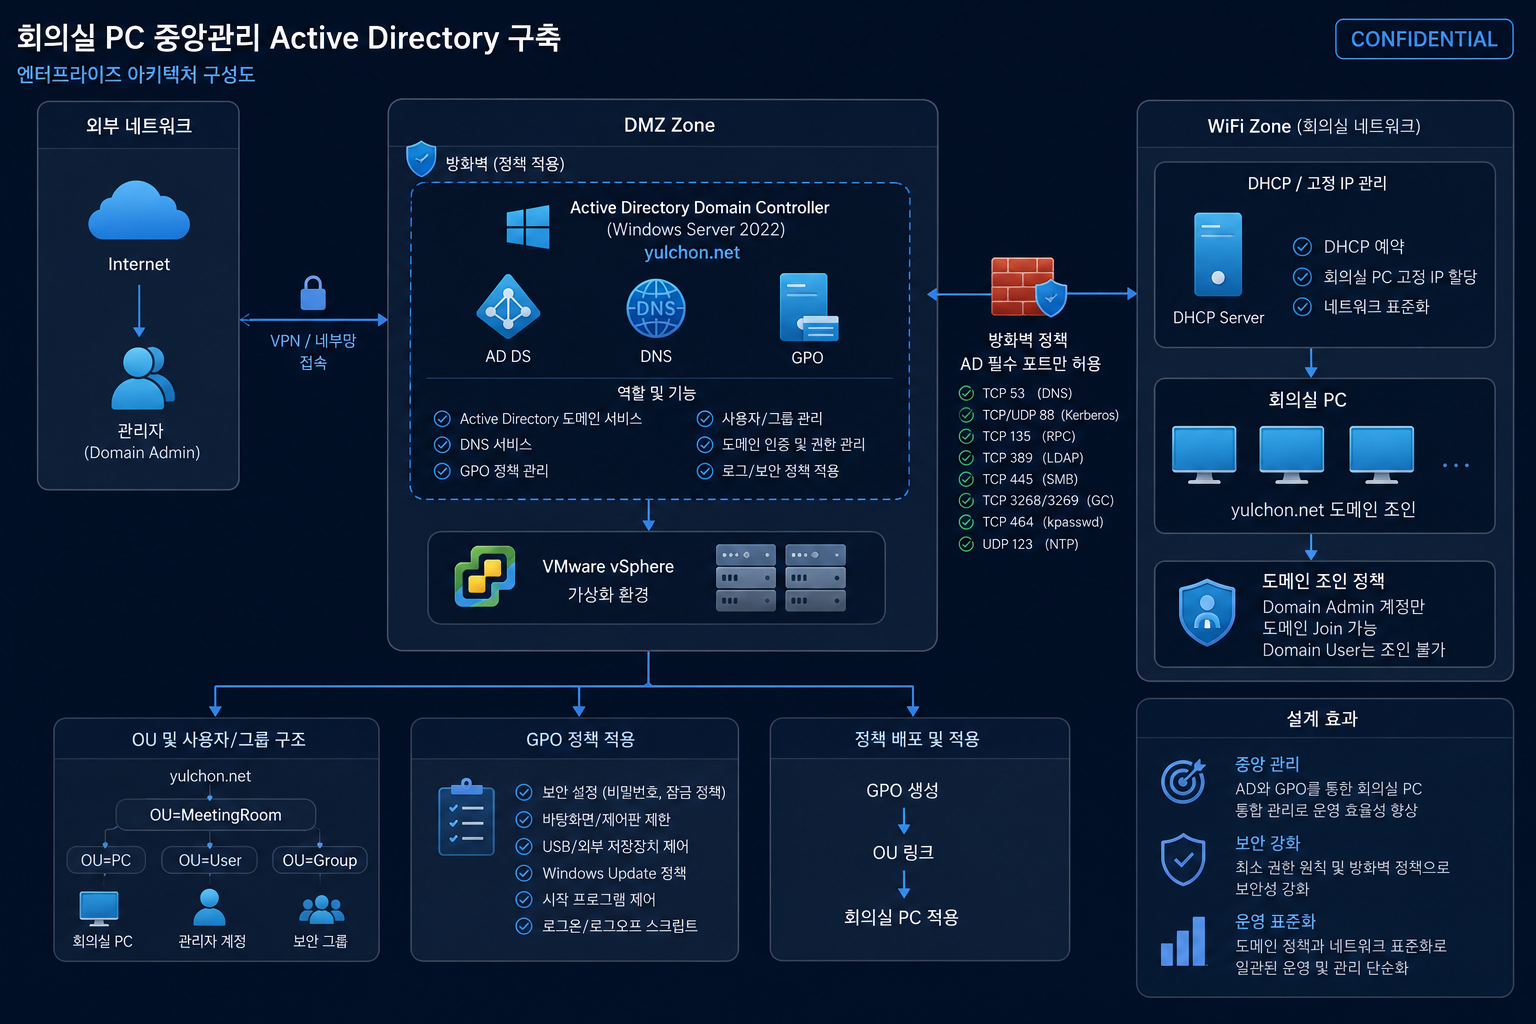
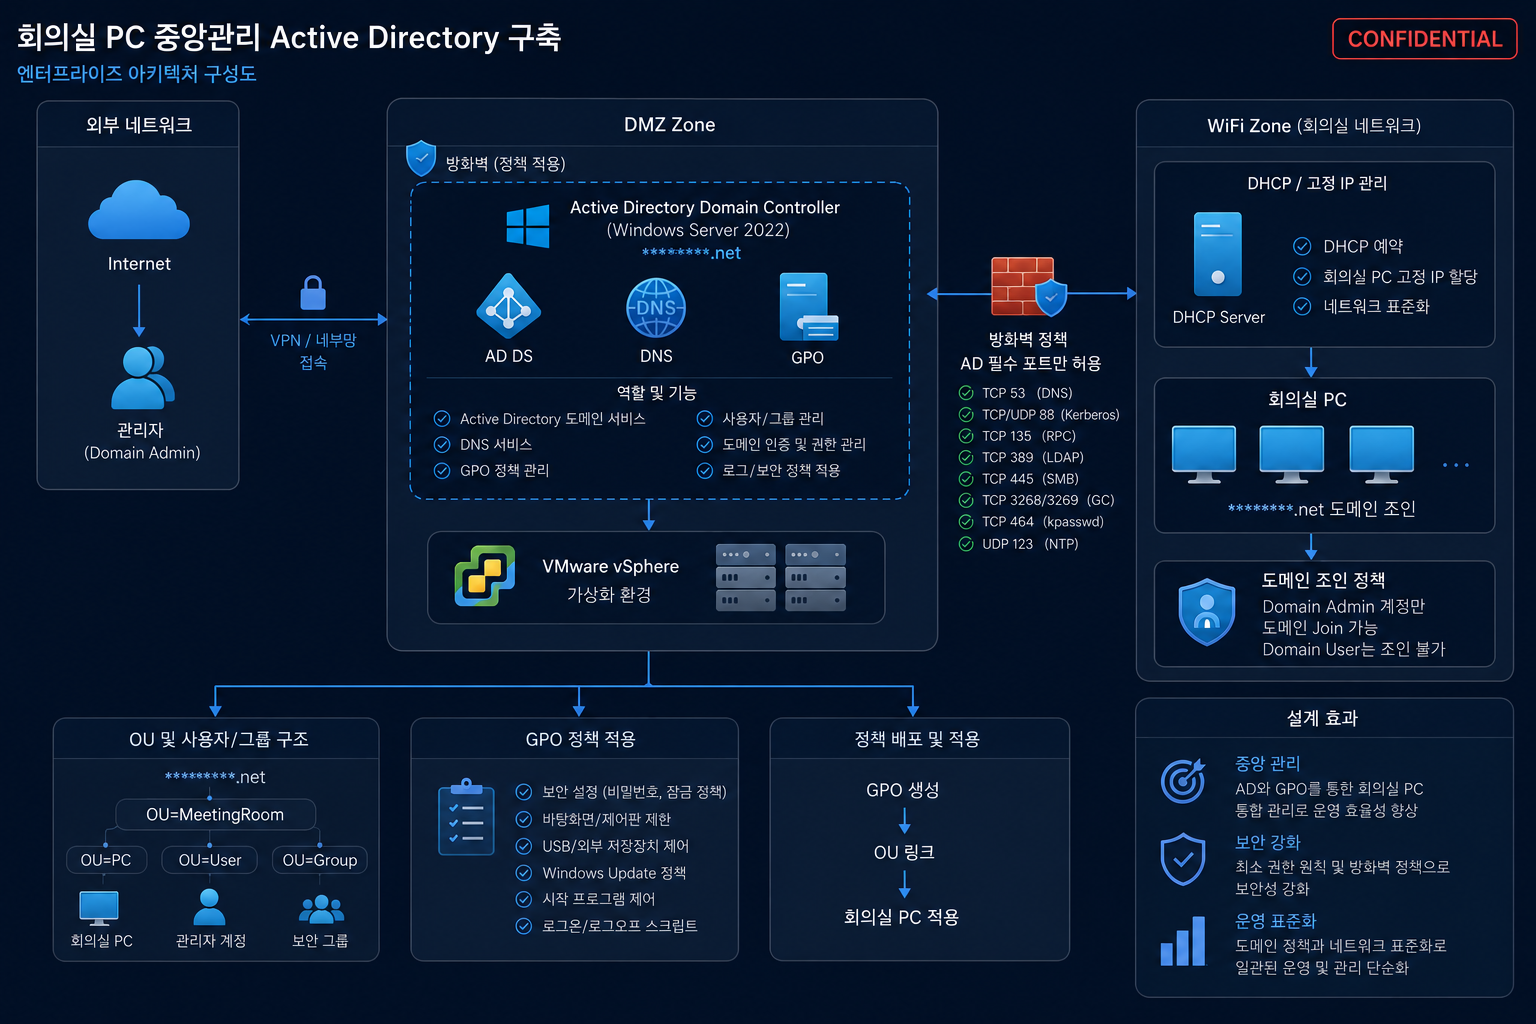
pj_edit

diff --git a/azure-knowledge-platform/projects.html b/azure-knowledge-platform/projects.html
@@ -988,7 +988,7 @@ const projects = [
     date: '2025.04',
     icon: 'security',
     detail: {
-      diagram: null,
+      diagram: '../etc/Images/paloalto.png',
       techStack: [
         { name: 'Palo Alto' },
         { name: 'NAC' },
@@ -1027,7 +1027,7 @@ const projects = [
     date: '2025.07',
     icon: 'ai',
     detail: {
-      diagram: null,
+      diagram: '../etc/Images/Copilotstudio.png',
       techStack: [
         { name: 'Copilot Studio' },
         { name: 'M365' },
@@ -1231,45 +1231,85 @@ const projects = [
       keywords: ['Power Automate', 'Forms', 'Process Automation']
     }
   },
-  {
-    id: 16,
-    priority: 3,
-    domain: 'Security',
-    status: 'Completed',
-    title: 'ISO 27001 취약점 진단 자동화 대시보드 구축',
-    tags: ['PowerShell', 'Logpresso', 'ISO 27001'],
-    desc: 'ISO 27001 인증 유지를 위한 Windows Server 취약점 진단 84개 항목을 PowerShell로 자동 점검하고, Logpresso 대시보드로 시각화한 프로젝트입니다.',
-    date: '2025.09',
-    icon: 'security',
-    detail: {
-      diagram: null,
-      techStack: [
-        { name: 'PowerShell' },
-        { name: 'Logpresso' },
-        { name: 'Windows Server' }
-      ],
-      whatIDesigned: [
-        'ISO 27001 취약점 진단 기준 84개 항목을 점검하는 Windows Server용 PowerShell 스크립트 개발',
-        '점검 결과를 서버 로컬에 생성하고 Logpresso로 수집·연동',
-        '항목별 준수 여부를 한눈에 확인할 수 있는 대시보드 구성',
-        '기준 미충족 항목을 식별해 조치할 수 있도록 시각화'
-      ],
-      problem: 'ISO 27001 인증 유지를 위해서는 Windows Server 취약점 진단 기준 84개 항목을 주기적으로 점검해야 했는데, 서버마다 수작업으로 확인하다 보니 시간이 많이 들고 누락 위험도 있었습니다.',
-      challenge: [
-        { issue: '84개 항목을 서버별로 수작업 점검하면 시간이 오래 걸리고 결과를 취합해 전체 현황을 파악하기 어려웠음', resolution: 'PowerShell 스크립트로 84개 항목을 자동 점검하도록 구현하고, 결과를 Logpresso로 수집해 항목별 준수 여부를 대시보드로 시각화' },
-      ],
-      outcome: [
-        { value: '84개 항목', label: '자동 점검' },
-        { value: 'PowerShell → Logpresso', label: '자동 수집·시각화 파이프라인' },
-        { value: '대시보드 기반', label: '미준수 항목 식별 및 조치 지원' },
-      ],
-      whyDesign: [
-        { title: '효율성', desc: '수작업 점검을 자동화해 84개 항목을 반복적으로 빠르게 확인' },
-        { title: '가시성', desc: '대시보드로 항목별 준수 여부를 한눈에 파악하고 미흡한 부분을 바로 조치' }
-      ],
-      keywords: ['ISO 27001', 'PowerShell', 'Logpresso', 'Compliance']
-    }
-  },
+{
+  id: 16,
+  priority: 3,
+  domain: 'Security',
+  status: 'Completed',
+  title: 'ISO 27001 취약점 진단 자동화 대시보드 구축',
+  tags: ['PowerShell', 'Logpresso', 'ISO 27001'],
+  desc: 'ISO 27001 인증 유지를 위한 Windows Server 보안 점검 체계를 자동화하고, PowerShell과 Logpresso를 활용해 취약점 진단부터 결과 수집·시각화까지 운영 프로세스를 구축한 프로젝트입니다.',
+  date: '2025.09',
+  icon: 'security',
+  detail: {
+    diagram: '../etc/Images/ISO.png',
+        techStack: [
+      { name: 'PowerShell' },
+      { name: 'Windows Server' },
+      { name: 'Task Scheduler' },
+      { name: 'Logpresso' },
+      { name: 'JSON' }
+    ],
+
+    whatIDesigned: [
+      'ISO 27001 Windows Server 보안 기준 84개 점검 항목을 자동 진단하는 PowerShell 스크립트 설계 및 개발',
+      '예약 실행 기반의 점검 프로세스와 결과(JSON/CSV) 생성 구조 설계',
+      'Logpresso 수집 정책을 구성하여 서버별 점검 결과 자동 수집 및 정규화',
+      '서버별·항목별 준수 현황과 미조치 항목을 확인할 수 있는 보안 운영 대시보드 구성',
+      '미준수 항목 우선순위 및 조치 현황을 추적할 수 있는 시각화 체계 설계'
+    ],
+
+    problem:
+      'ISO 27001 인증 기준에 따라 Windows Server 보안 설정을 주기적으로 점검해야 했지만, 서버별 수작업 점검으로 많은 시간이 소요되었고 결과를 취합해 전체 보안 준수 현황을 파악하기 어려웠습니다.',
+
+    challenge: [
+      {
+        issue:
+          '84개 보안 점검 항목을 서버별로 수작업 확인해야 했기 때문에 점검 시간이 오래 걸리고 담당자별 편차와 결과 취합의 어려움이 발생했습니다.',
+        resolution:
+          'PowerShell 기반 자동 진단 스크립트를 구축하고 Logpresso에서 결과를 자동 수집·정규화하여 서버별 준수율, 미준수 항목, 조치 대상 현황을 대시보드로 통합 관리하도록 구성했습니다.'
+      }
+    ],
+
+    outcome: [
+      {
+        value: '84개 항목',
+        label: 'ISO 27001 자동 보안 점검'
+      },
+      {
+        value: 'PowerShell → Logpresso',
+        label: '자동 수집·정규화·시각화 파이프라인'
+      },
+      {
+        value: 'Dashboard',
+        label: '미준수 항목 식별 및 조치 현황 관리'
+      }
+    ],
+
+    whyDesign: [
+      {
+        title: '운영 효율성',
+        desc: '반복적인 Windows Server 보안 점검을 자동화하여 점검 시간을 단축하고 운영 표준화를 구현'
+      },
+      {
+        title: '가시성',
+        desc: '전체 서버의 ISO 27001 준수 현황과 미조치 항목을 대시보드에서 통합 관리'
+      },
+      {
+        title: '확장성',
+        desc: '신규 Windows Server에도 동일한 점검 스크립트와 수집 체계를 적용할 수 있도록 설계'
+      }
+    ],
+
+    keywords: [
+      'ISO 27001',
+      'PowerShell Automation',
+      'Logpresso',
+      'Windows Server',
+      'Compliance Monitoring'
+    ]
+  }
+},
   {
     id: 17,
     priority: 16,
@@ -1281,7 +1321,7 @@ const projects = [
     date: '2024.12',
     icon: 'workplace',
     detail: {
-      diagram: null,
+      diagram: '../etc/Images/SharePoint.png',
       techStack: [
         { name: 'SharePoint' },
         { name: 'Teams' },
@@ -1319,7 +1359,7 @@ const projects = [
     date: '2026.03',
     icon: 'data',
     detail: {
-      diagram: null,
+      diagram: '../etc/Images/Data Governance.png',
       techStack: [
         { name: 'Microsoft Purview' },
         { name: 'Data Catalog' },
@@ -1350,7 +1390,7 @@ const projects = [
     date: '2026.08',
     icon: 'infra',
     detail: {
-      diagram: '../etc/Images/meeting-room-ad.webp',
+      diagram: '../etc/Images/Meetingroom.png',
       techStack: [
         { name: 'Windows Server 2022' },
         { name: 'Active Directory' },